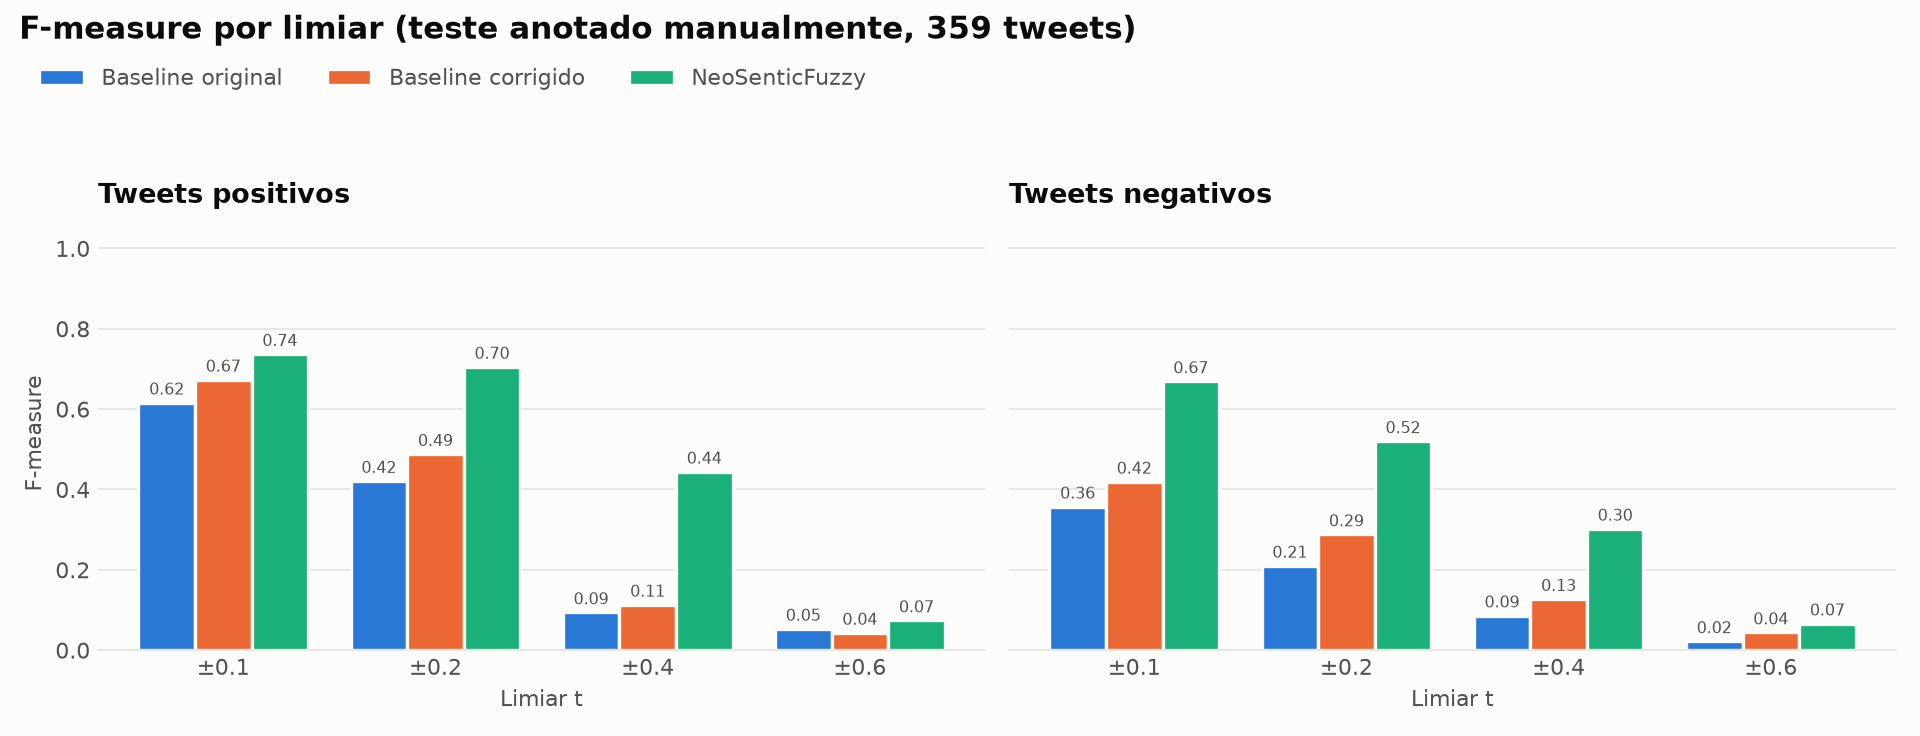
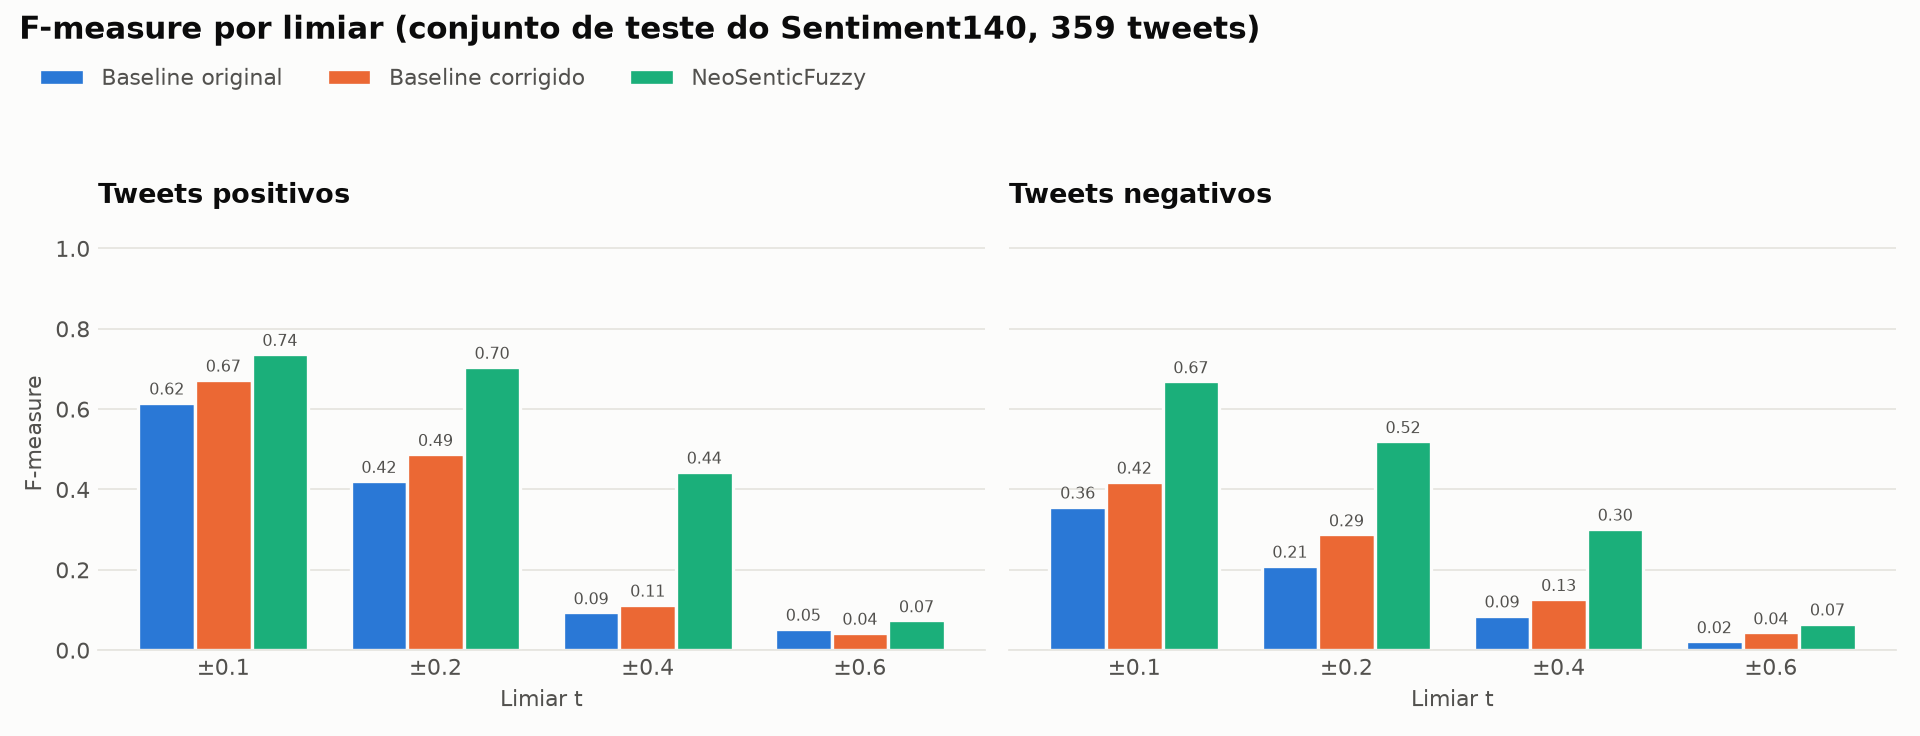
fix(evaluation): simplifica o título do gráfico do conjunto de teste

Changed region(s): [[0.2188, 0.0, 0.6562, 0.0625]]

diff --git a/run_plots.py b/run_plots.py
@@ -136,7 +136,7 @@ def main() -> None:
     figure_metric(sample, "F-measure", "F-measure por limiar (Sentiment140, 5000 tweets)",
                   OUT / "01_fmeasure_5000.png")
     figure_precision_recall(sample, OUT / "02_precision_recall_5000.png")
-    figure_metric(manual, "F-measure", "F-measure por limiar (teste anotado manualmente, 359 tweets)",
+    figure_metric(manual, "F-measure", "F-measure por limiar (conjunto de teste do Sentiment140, 359 tweets)",
                   OUT / "03_fmeasure_teste_manual.png")
     figure_emotions(OUT / "04_emocoes_pleasantness.png")
     print(f"Gráficos salvos em {OUT}/")
